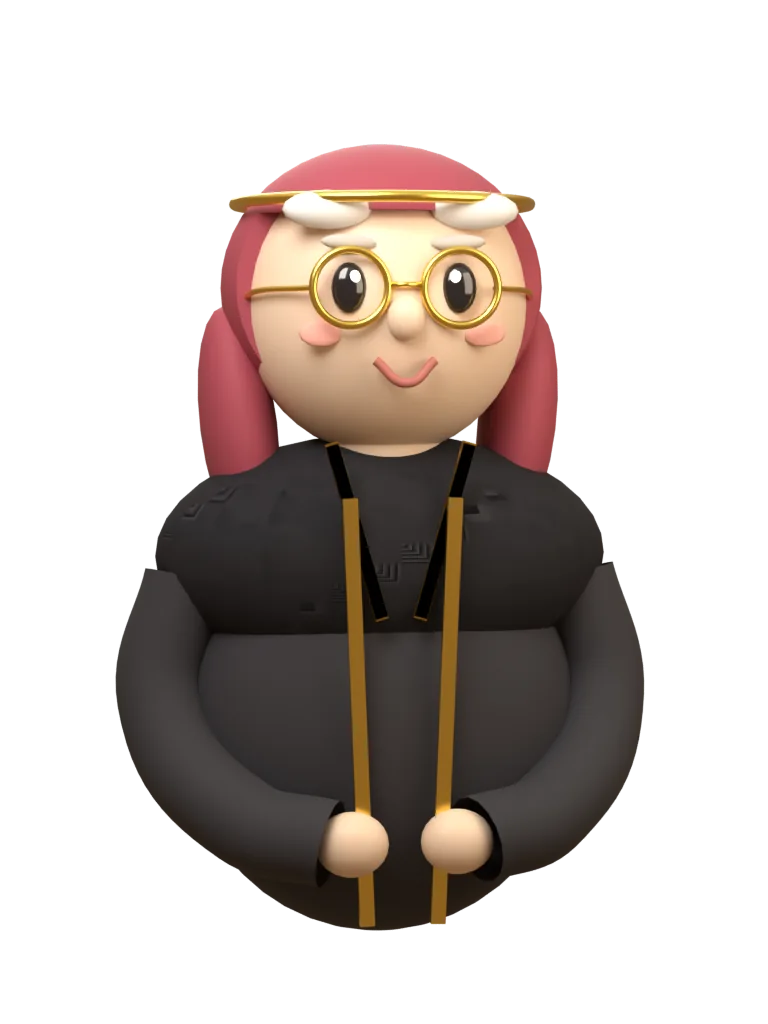
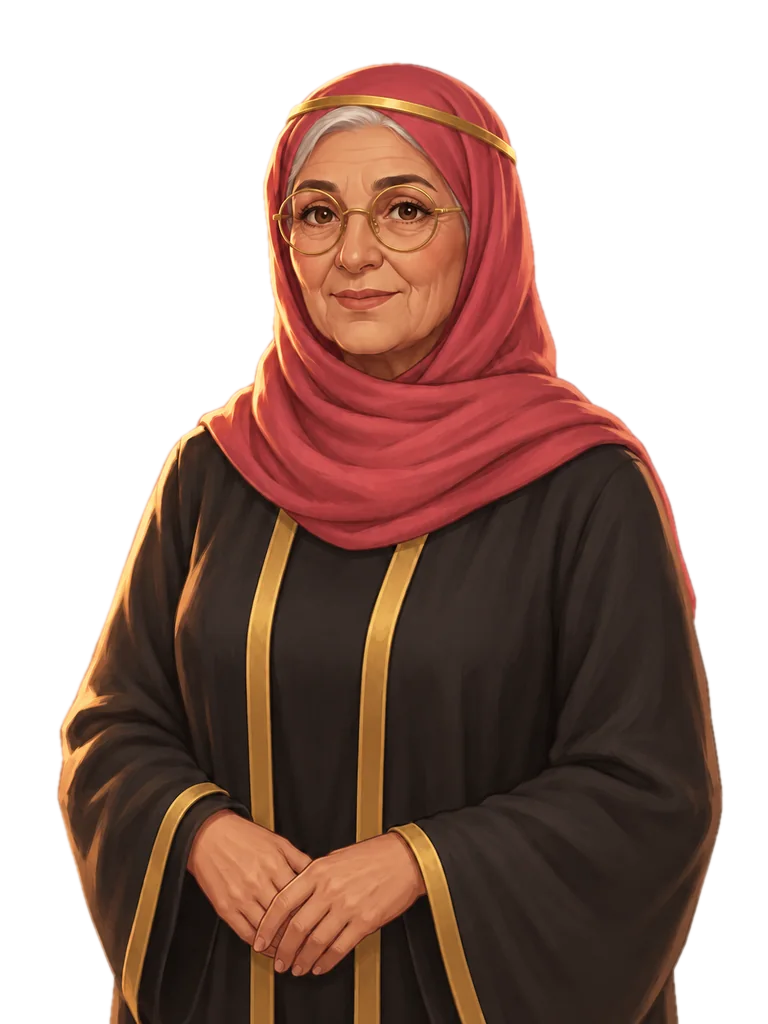
Paint the whole prologue cast
Adds Layla's angry face and all of Noura's and Rashid's expressions as painted
portraits matching Layla's style (generated from docs/PORTRAIT_PROMPTS.md),
cut out with tools/art/cutout_portrait.py. The Blender half-bodies are no
longer used.

Claude-Session: https://claude.ai/code/session_01AEhSnavJv8GSyPZMfViFZn

diff --git a/src/components/story/ScenePlayer.tsx b/src/components/story/ScenePlayer.tsx
@@ -7,12 +7,9 @@ import { CAST_NAMES, CastId, Expression, Scene, StagePos } from '../../story/typ
 import { assetUrl } from '../../utils/assetUrl';
 import './ScenePlayer.css';
 
-/**
- * Rendered expressions per character; anything else falls back to neutral. Layla is painted (docs/ASSETS.md, 3c;
- * her angry face is still to come), the others are Blender renders from tools/blender/make_story_cast.py.
- */
+/** Painted expressions per character (docs/ASSETS.md, section 3c); anything else falls back to neutral. */
 const EXPRESSIONS: Partial<Record<CastId, Expression[]>> = {
-  layla: ['neutral', 'happy', 'surprised', 'worried'],
+  layla: ['neutral', 'happy', 'surprised', 'worried', 'angry'],
   noura: ['neutral', 'happy', 'surprised', 'worried'],
   rashid: ['neutral', 'angry', 'surprised'],
 };

diff --git a/docs/ASSETS.md b/docs/ASSETS.md
@@ -78,7 +78,7 @@ Limits: these are clean stylized 3D props, not painterly game-art. Some are simp
   - Convert with `python3 tools/art/to_webp.py`.
 - **Voice:** every beat has a clip, `public/assets/audio/story/pro_*.mp3`, ElevenLabs `eleven_v4` (first take), trimmed and loudness-matched with ffmpeg. The casting is in `tools/voice/voices.json`; the narrator (`pro_narr_*`) reuses the jury's Ahmed MSA voice. A unit test fails if a beat has no voice or its file is missing. The lines still need a native-speaker listen, like the rest of the voice work.
 
-### 3c. Illustrated story portraits (in progress; replaces the Blender half-bodies)
+### 3c. Painted story portraits (replace the Blender half-bodies)
 
 The story cast moves to semi-realistic painted 2D portraits, closer to Hollywood Merge. Each one is generated with an image model, using the Blender renders above as the reference, so face, headwear and colours stay the same across expressions.
 
@@ -106,9 +106,11 @@ The story cast moves to semi-realistic painted 2D portraits, closer to Hollywood
   4. Cut out the flat backdrop and size to 768x1024: `python3 tools/art/cutout_portrait.py in.png public/assets/art/story/<name>.png`.
   5. Convert with `python3 tools/art/to_webp.py` (about 47 KB each).
 - **Cost:** each image is about 1,830 ElevenLabs credits (about $0.37 at the time of writing).
-- **Status:**
-  - Layla: neutral, happy, surprised and worried are painted. Angry is not yet painted, so the firm answer shows painted neutral for now.
-  - Noura and Rashid: still Blender.
+- **Status:** all prologue portraits are painted.
+  - Layla's first four expressions came through the ElevenLabs pipeline above.
+  - Layla's angry face and all of Noura and Rashid came from Codex image generation, using `docs/PORTRAIT_PROMPTS.md`, with painted Layla as the style reference.
+  - The generated sources are kept in `tools/art/portrait_inbox/`.
+  - The Blender half-bodies remain reproducible from `tools/blender/make_story_cast.py`, but are no longer used.
 - **Files:**
   - Same names as today, `public/assets/art/story/<character>_<expression>.webp`. The only code change is the per-character expression list in `ScenePlayer.tsx`.
   - The Blender renders stay reproducible from `tools/blender/make_story_cast.py` as the fallback and reference.

diff --git a/DOCUMENTATION.md b/DOCUMENTATION.md
@@ -120,7 +120,7 @@ The engine lives in `src/game/progression.ts` (pure, seeded RNG in `state.rngSee
 19. **Animated story scenes (Hollywood Merge style), phase 1: the opening prologue.**
     - **What it is:** new players see a short animated scene when they tap Play. Layla comes home to Diriyah at dusk, Grandma Noura shows her the crumbling Majlis, and the developer Rashid offers to buy it. The player chooses a firm answer (+5 gems) or a polite one (+100 SAR), and Noura hands over grandfather's dallah, which flies into the board as the tutorial starts.
     - **How it plays:**
-      - Characters are Blender half-body figures with expressions.
+      - Characters are painted waist-up portraits with expressions (docs/ASSETS.md, section 3c).
       - They slide in, breathe, bob while talking and dim when not speaking.
       - Lines type into a speech bubble, and every line is voiced (14 clips, 12 per playthrough). The two scene-setting lines use a narrator, and the player's chosen answer is spoken aloud by Layla.
       - The camera pans, zooms or shakes, with cinematic letterbox bars, and Skip is always available.
